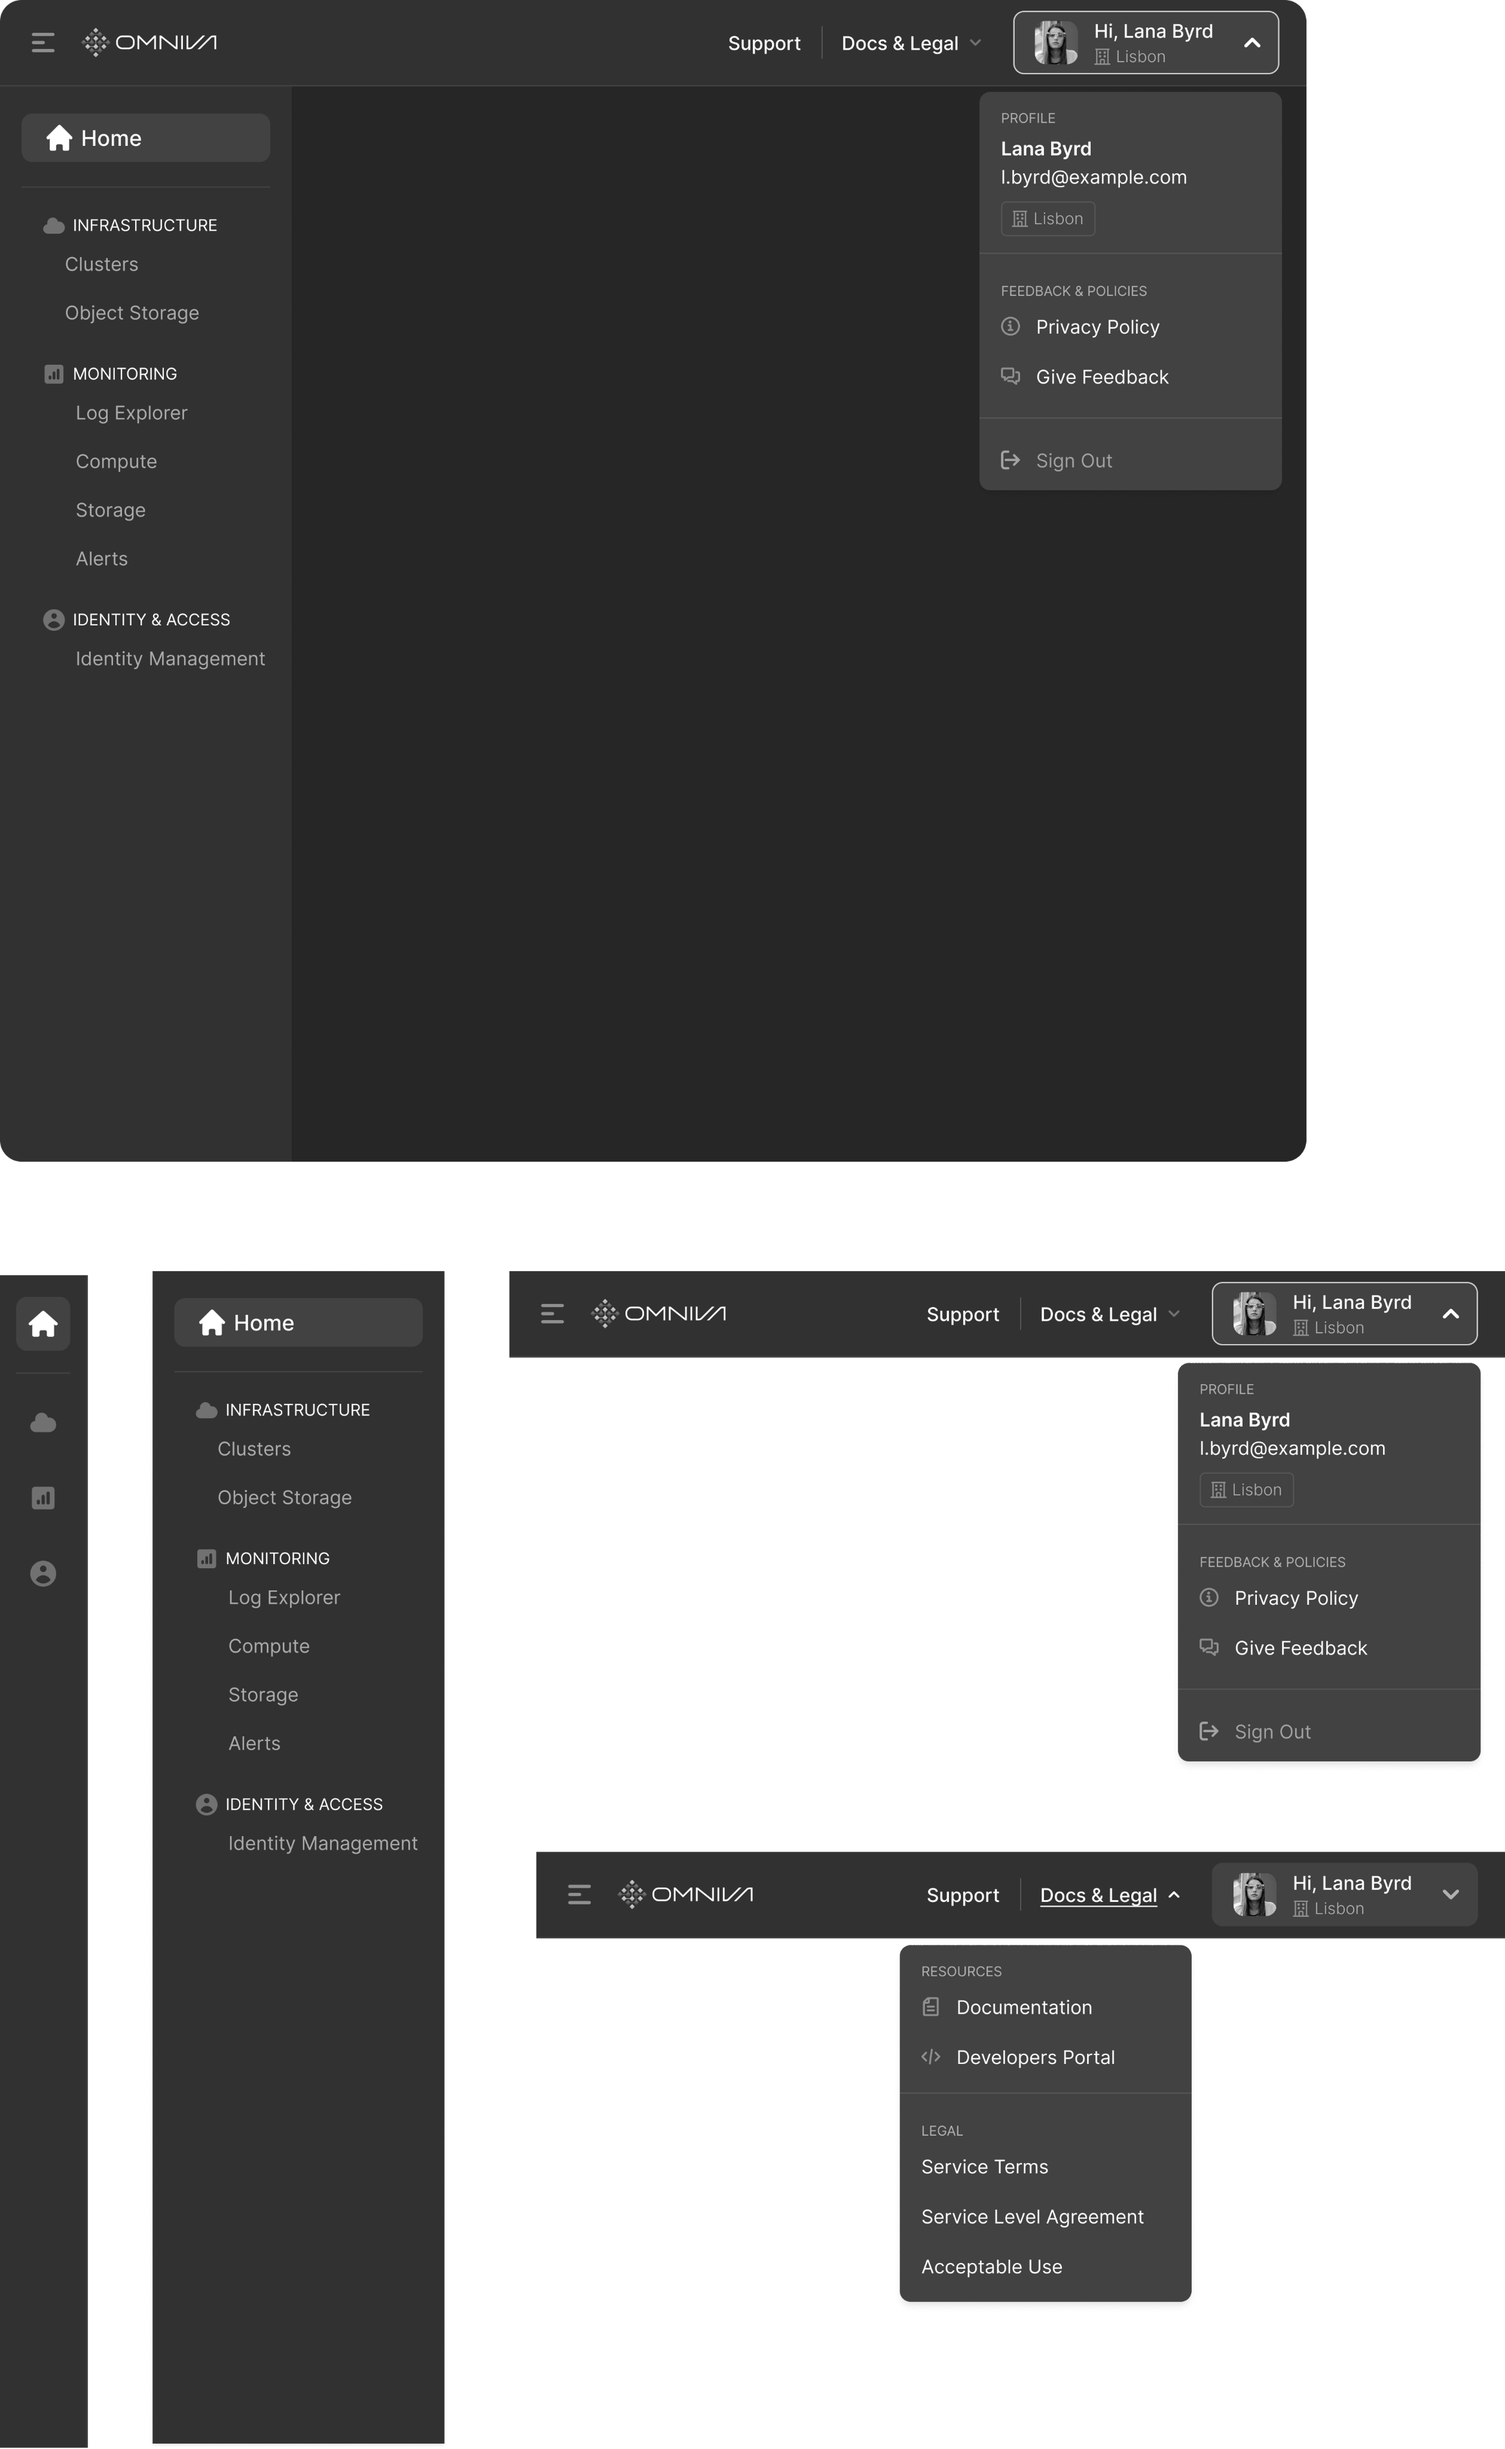
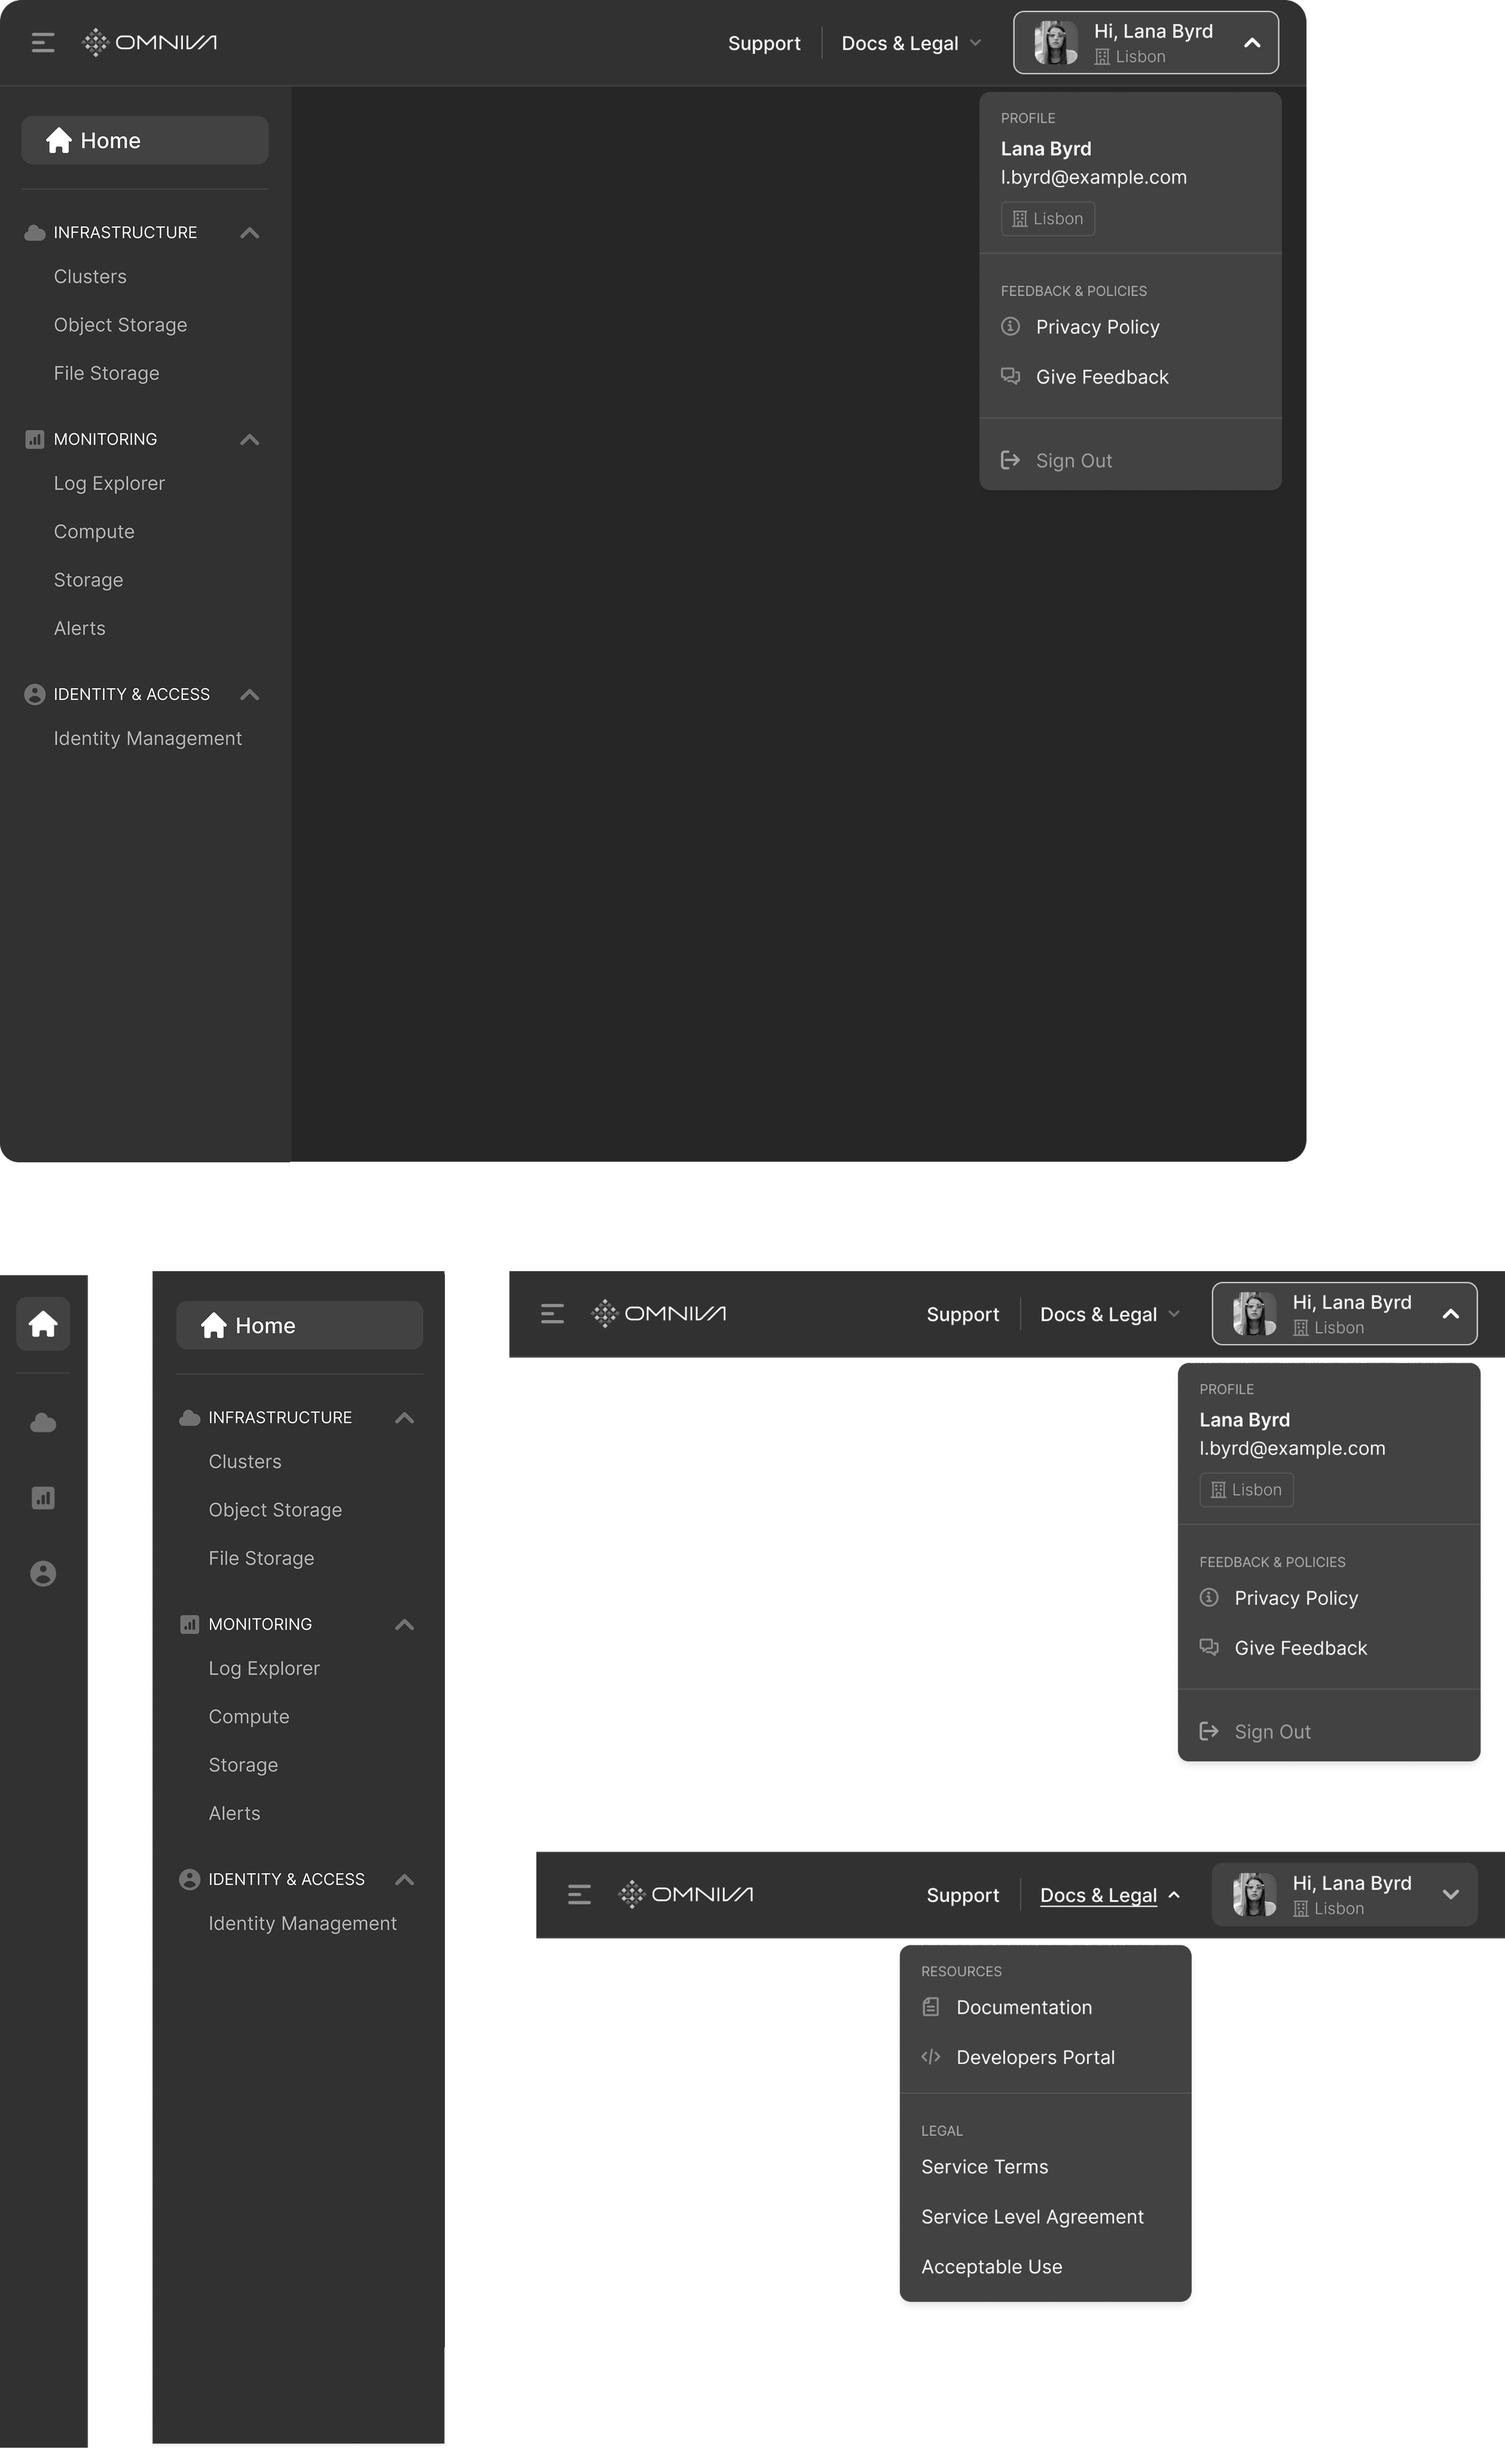
hide Portfolio case study

Changed region(s): [[0.124, 0.5312, 0.2479, 0.7812], [0.031, 0.0938, 0.1549, 0.3125], [0.062, 0.0312, 0.093, 0.0625]]

diff --git a/work/omniva.html b/work/omniva.html
@@ -736,8 +736,36 @@
         </p>
       </div>
 
-      <p class="font-sans text-text text-[16px] md:text-[17px] leading-[1.75] max-w-[680px]">
-        These outcomes traced back to specific decisions made along the way. Rebuilding the navigation and removing the footer gave the console a structure engineers could navigate the way they actually thought about their work. Sequencing the foundational iterations before the signal-driven hub meant every later decision was grounded in real usage data, not assumptions. Shipping the AI agent with transparent reasoning instead of full automation kept trust intact while engineers learned to rely on it. Together, these choices are what took session depth from seconds to minutes, and cut ops workflow task time by 35%.
+      <h3 class="font-sans font-bold text-text text-[17px] leading-[1.6]">Three decisions I made carried the most weight.</h3>
+
+      <div class="flex flex-col gap-4 pt-2">
+        <div class="border border-border rounded-2xl flex flex-col gap-[7px] px-7 py-7">
+          <p class="font-mono text-accent text-[10px] tracking-[1px] uppercase">Foundation · Navigation &amp; IA</p>
+          <p class="font-sans font-bold text-text text-[16px] leading-[1.6]">I chose to rebuild navigation around the platform's shape, not engineering's.</p>
+          <p class="font-sans text-text text-[15px] leading-[1.65]">
+            I proposed this direction, and PM and Engineering aligned on it. That structural work is what let every later iteration build on solid ground instead of breaking the engineer's mental model.
+          </p>
+        </div>
+
+        <div class="border border-border rounded-2xl flex flex-col gap-[7px] px-7 py-7">
+          <p class="font-mono text-accent text-[10px] tracking-[1px] uppercase">Strategy · Sequencing</p>
+          <p class="font-sans font-bold text-text text-[16px] leading-[1.6]">I chose foundation before the signal-driven hub.</p>
+          <p class="font-sans text-text text-[15px] leading-[1.65]">
+            I made the call to ship the smaller iterations first, instead of the full hub upfront, and the team agreed once we weighed the build risk together. Every later decision ended up grounded in real usage data, not assumptions.
+          </p>
+        </div>
+
+        <div class="border border-border rounded-2xl flex flex-col gap-[7px] px-7 py-7">
+          <p class="font-mono text-accent text-[10px] tracking-[1px] uppercase">AI Agent · Interaction model</p>
+          <p class="font-sans font-bold text-text text-[16px] leading-[1.6]">I chose transparency over automation.</p>
+          <p class="font-sans text-text text-[15px] leading-[1.65]">
+            This was my call: surface reasoning instead of letting the agent act independently. Engineering agreed given the reliability constraints at the time. That choice kept engineer trust intact while the system was still new.
+          </p>
+        </div>
+      </div>
+
+      <p class="font-sans text-text text-[16px] md:text-[17px] leading-[1.75] max-w-[680px] pt-2">
+        Together, these choices are what took session depth from seconds to minutes, and cut ops workflow task time by 35%.
       </p>
 
     </div>

diff --git a/index.html b/index.html
@@ -98,7 +98,7 @@
                 py-12 md:py-20">
       <p class="font-mono text-text text-base tracking-[0.96px]">02 / Selected Work</p>
 
-      <div class="grid grid-cols-1 md:grid-cols-2 gap-6">
+      <div class="grid grid-cols-1 md:grid-cols-2 lg:grid-cols-3 gap-6">
 
         <!-- Card 01 -->
         <article class="card bg-white border border-[#eceaea] flex flex-col rounded-3xl overflow-hidden cursor-pointer" onclick="location.href='./work/omniva.html'">
@@ -171,8 +171,8 @@
           </div>
         </article>
 
-        <!-- Card 04 - disabled, no hover -->
-        <article class="bg-white border border-[#eceaea] flex flex-col rounded-3xl overflow-hidden select-none">
+        <!-- Card 04 - disabled, no hover - hidden for now -->
+        <article class="hidden bg-white border border-[#eceaea] flex flex-col rounded-3xl overflow-hidden select-none">
           <div class="bg-surface h-[220px] md:h-[315px] relative shrink-0 overflow-hidden">
             <img src="./images/portfolio/card.png"
                  alt="Portfolio build UI"
